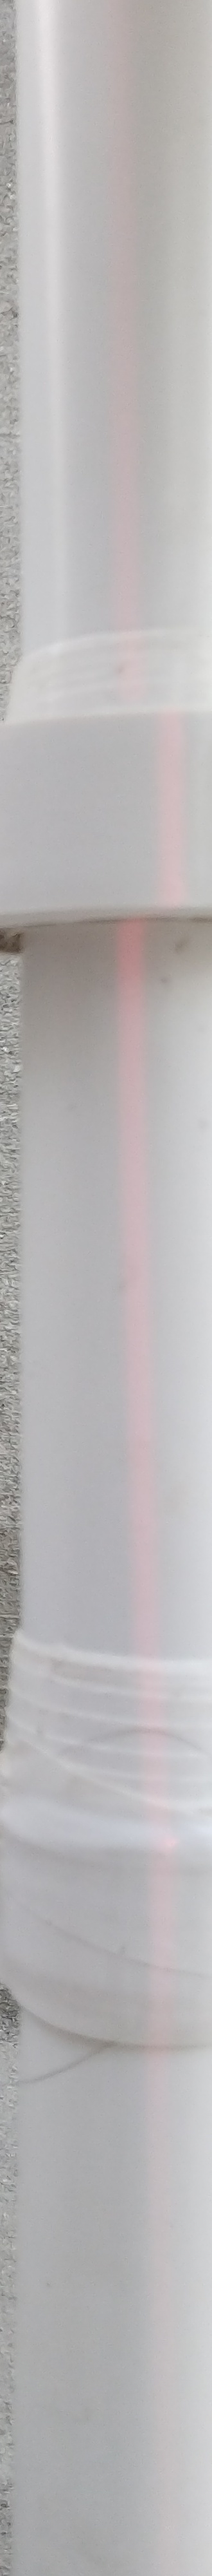
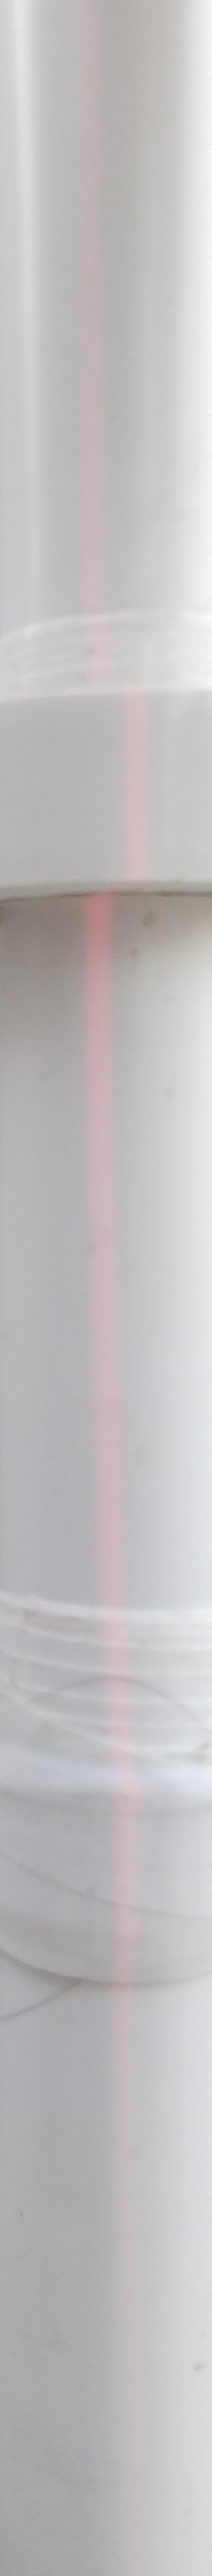
added detection using hsv
Changed getskeleton function
added getredinHSV function

diff --git a/findlaser.py b/findlaser.py
@@ -23,35 +23,12 @@ def applyclahe(image):
 
 
 def getskeleton(image):
-    red = image[:,:,2]
-    green = image[:,:,1]
-    blue = image[:,:,0]
-    # print(red)
-    # print(blue)
-
-    redminblue = cv2.subtract(red,blue)
-    # print(redminblue)
-    redminblue = redminblue.dot(1.6)
-    # print(redminblue)
-    redmingreen = cv2.subtract(red,green)
-    # print(type(redminblue))
-    # print(type(redmingreen))
-    nm = np.zeros(redminblue.shape)
-    # print(nm.shape)
-    for i in range(0, image.shape[0]): #to find minimum
-        for j in range(0, image.shape[1]):
-            if redminblue[i][j] >= redmingreen[i][j]:
-                nm[i][j] = redmingreen[i][j]
-            else:
-                nm[i][j] = int(redminblue[i][j])
-
-    # print(nm)
-
-    ret,img = cv2.threshold(nm, 40, 255, cv2.THRESH_BINARY) #second parameter is the threshold
-
-    img = (img - np.min(img))/np.ptp(img) #normalize image for skeletonize
-    img = img.astype(np.uint8)
-    skeleton = skeletonize(img) #takes an image(uint8) as input
+    gray = cv2.cvtColor(img, cv2.COLOR_BGR2GRAY)
+    ret,binary = cv2.threshold(gray, 40, 255, cv2.THRESH_BINARY)
+    # arr = np.array(img)
+    binary = (binary - np.min(binary))/np.ptp(binary) #normalize image for skeletonize
+    binary = binary.astype(np.uint8)
+    skeleton = skeletonize(binary)
     return skeleton.astype(np.uint8)*255
 
 
@@ -68,27 +45,51 @@ def applysaturation(img, amount):
     return img
 
 
-image = cv2.imread('data/shadow/shadow (5).jpg')
+def getredinHSV(image):
+    img_hsv = cv2.cvtColor(image, cv2.COLOR_BGR2HSV)
+
+    ## Gen lower mask (0-10) and upper mask (170-180) of RED
+    mask1 = cv2.inRange(img_hsv, (0,20,70), (30,255,255))
+    mask2 = cv2.inRange(img_hsv, (150,20,70), (180,255,255))
+
+    ## Merge the mask and crop the red regions
+    mask = cv2.bitwise_or(mask1, mask2)
+    croped = cv2.bitwise_and(image, image, mask=mask)
+
+    ## Display
+    # cv2.imshow("mask", mask)
+    # cv2.imshow("croped", croped)
+    img_rgb = cv2.cvtColor(croped, cv2.COLOR_HSV2BGR)
+    return croped
+    # cv2.imwrite('results/hsv.jpg', croped)
+    # cv2.waitKey()
+
+
+image = cv2.imread('data/shadow/shadow (2).jpg')
 
 # print(image.shape)
 # cv2.imshow('window',image)
 # cv2.waitKey(0)
 
 #crop image
+# for shadow 1-5
 top = 450
 bottom = 4450
 left = 2450
 right = 2780
+# for shadow 17-19
+# top = 1200
+# bottom = 4607
+# left = 2450
+# right = 2730
 img = image[top:bottom, left:right]
 
 cv2.imwrite('results/before.jpg', img)
 
+# img = applyclahe(img)
 img = applysaturation(img, 2)
-#img = applyclahe(img)
-
+img = getredinHSV(img)
 cv2.imwrite('results/after.jpg', img)
-
-img = getskeleton(img)
-
-cv2.imwrite('results/skeleton.jpg', img)
+skeleton = getskeleton(img)
+cv2.imwrite('results/skeleton.jpg', skeleton)
 displayimg(img)
